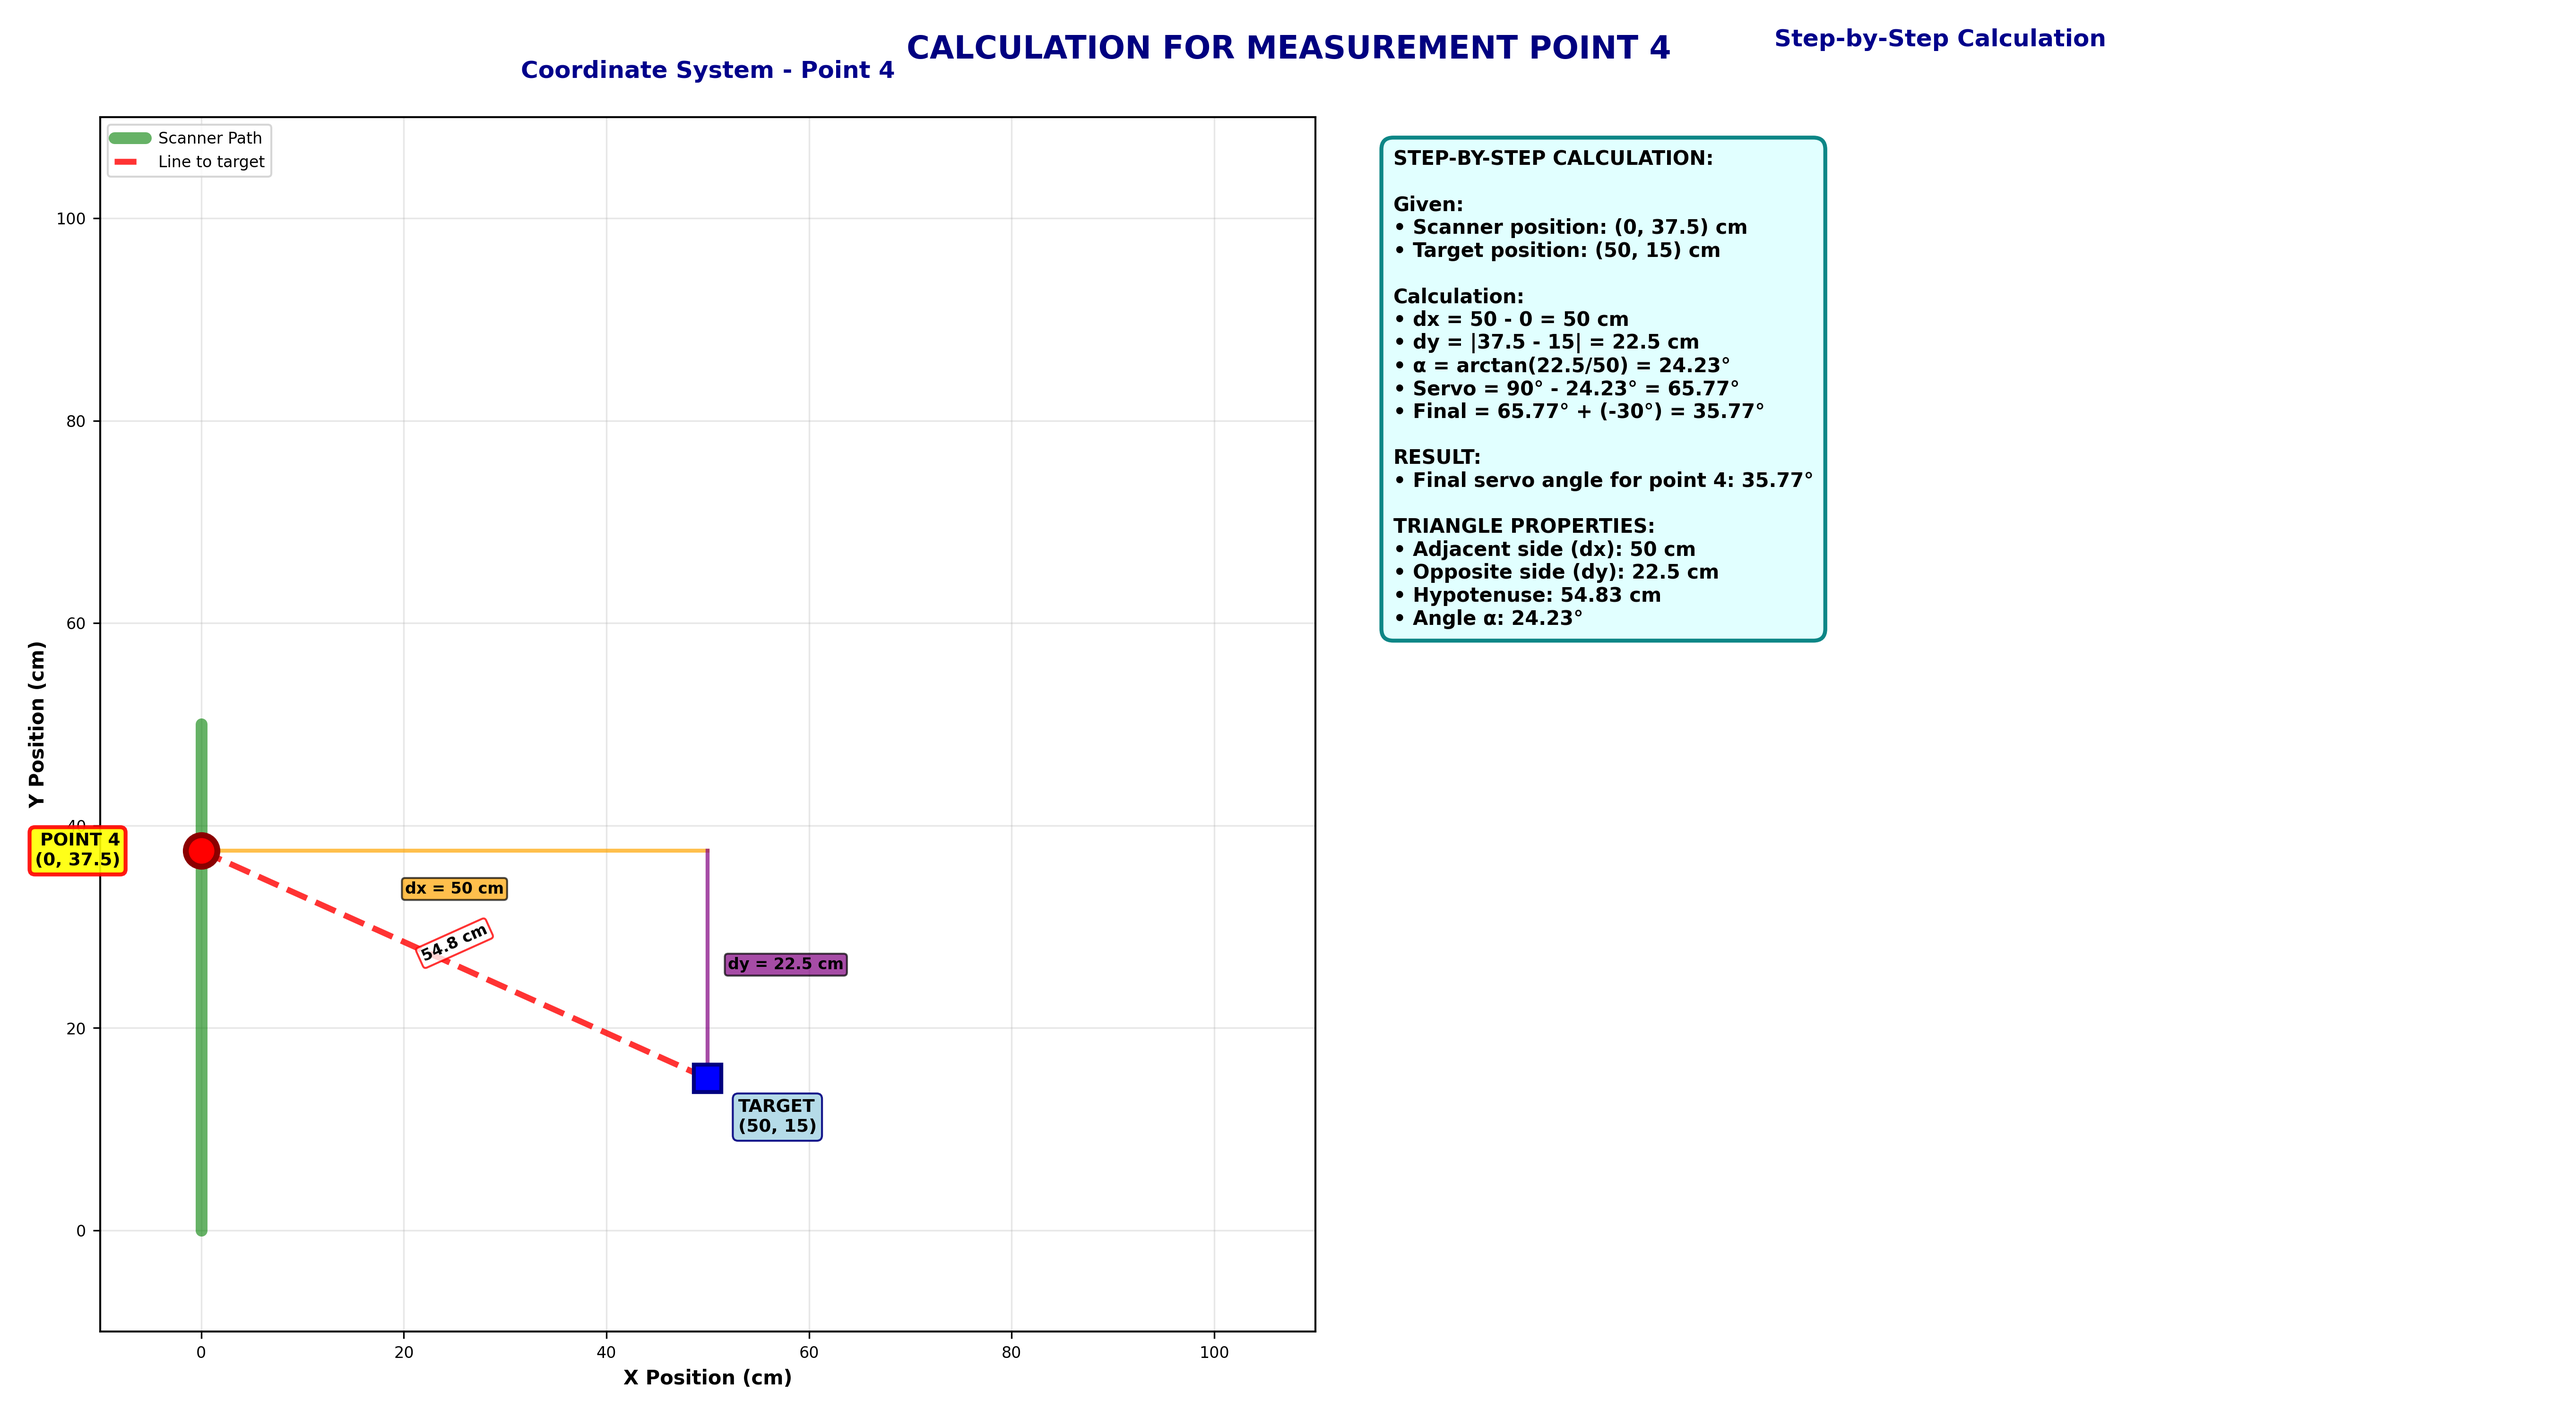
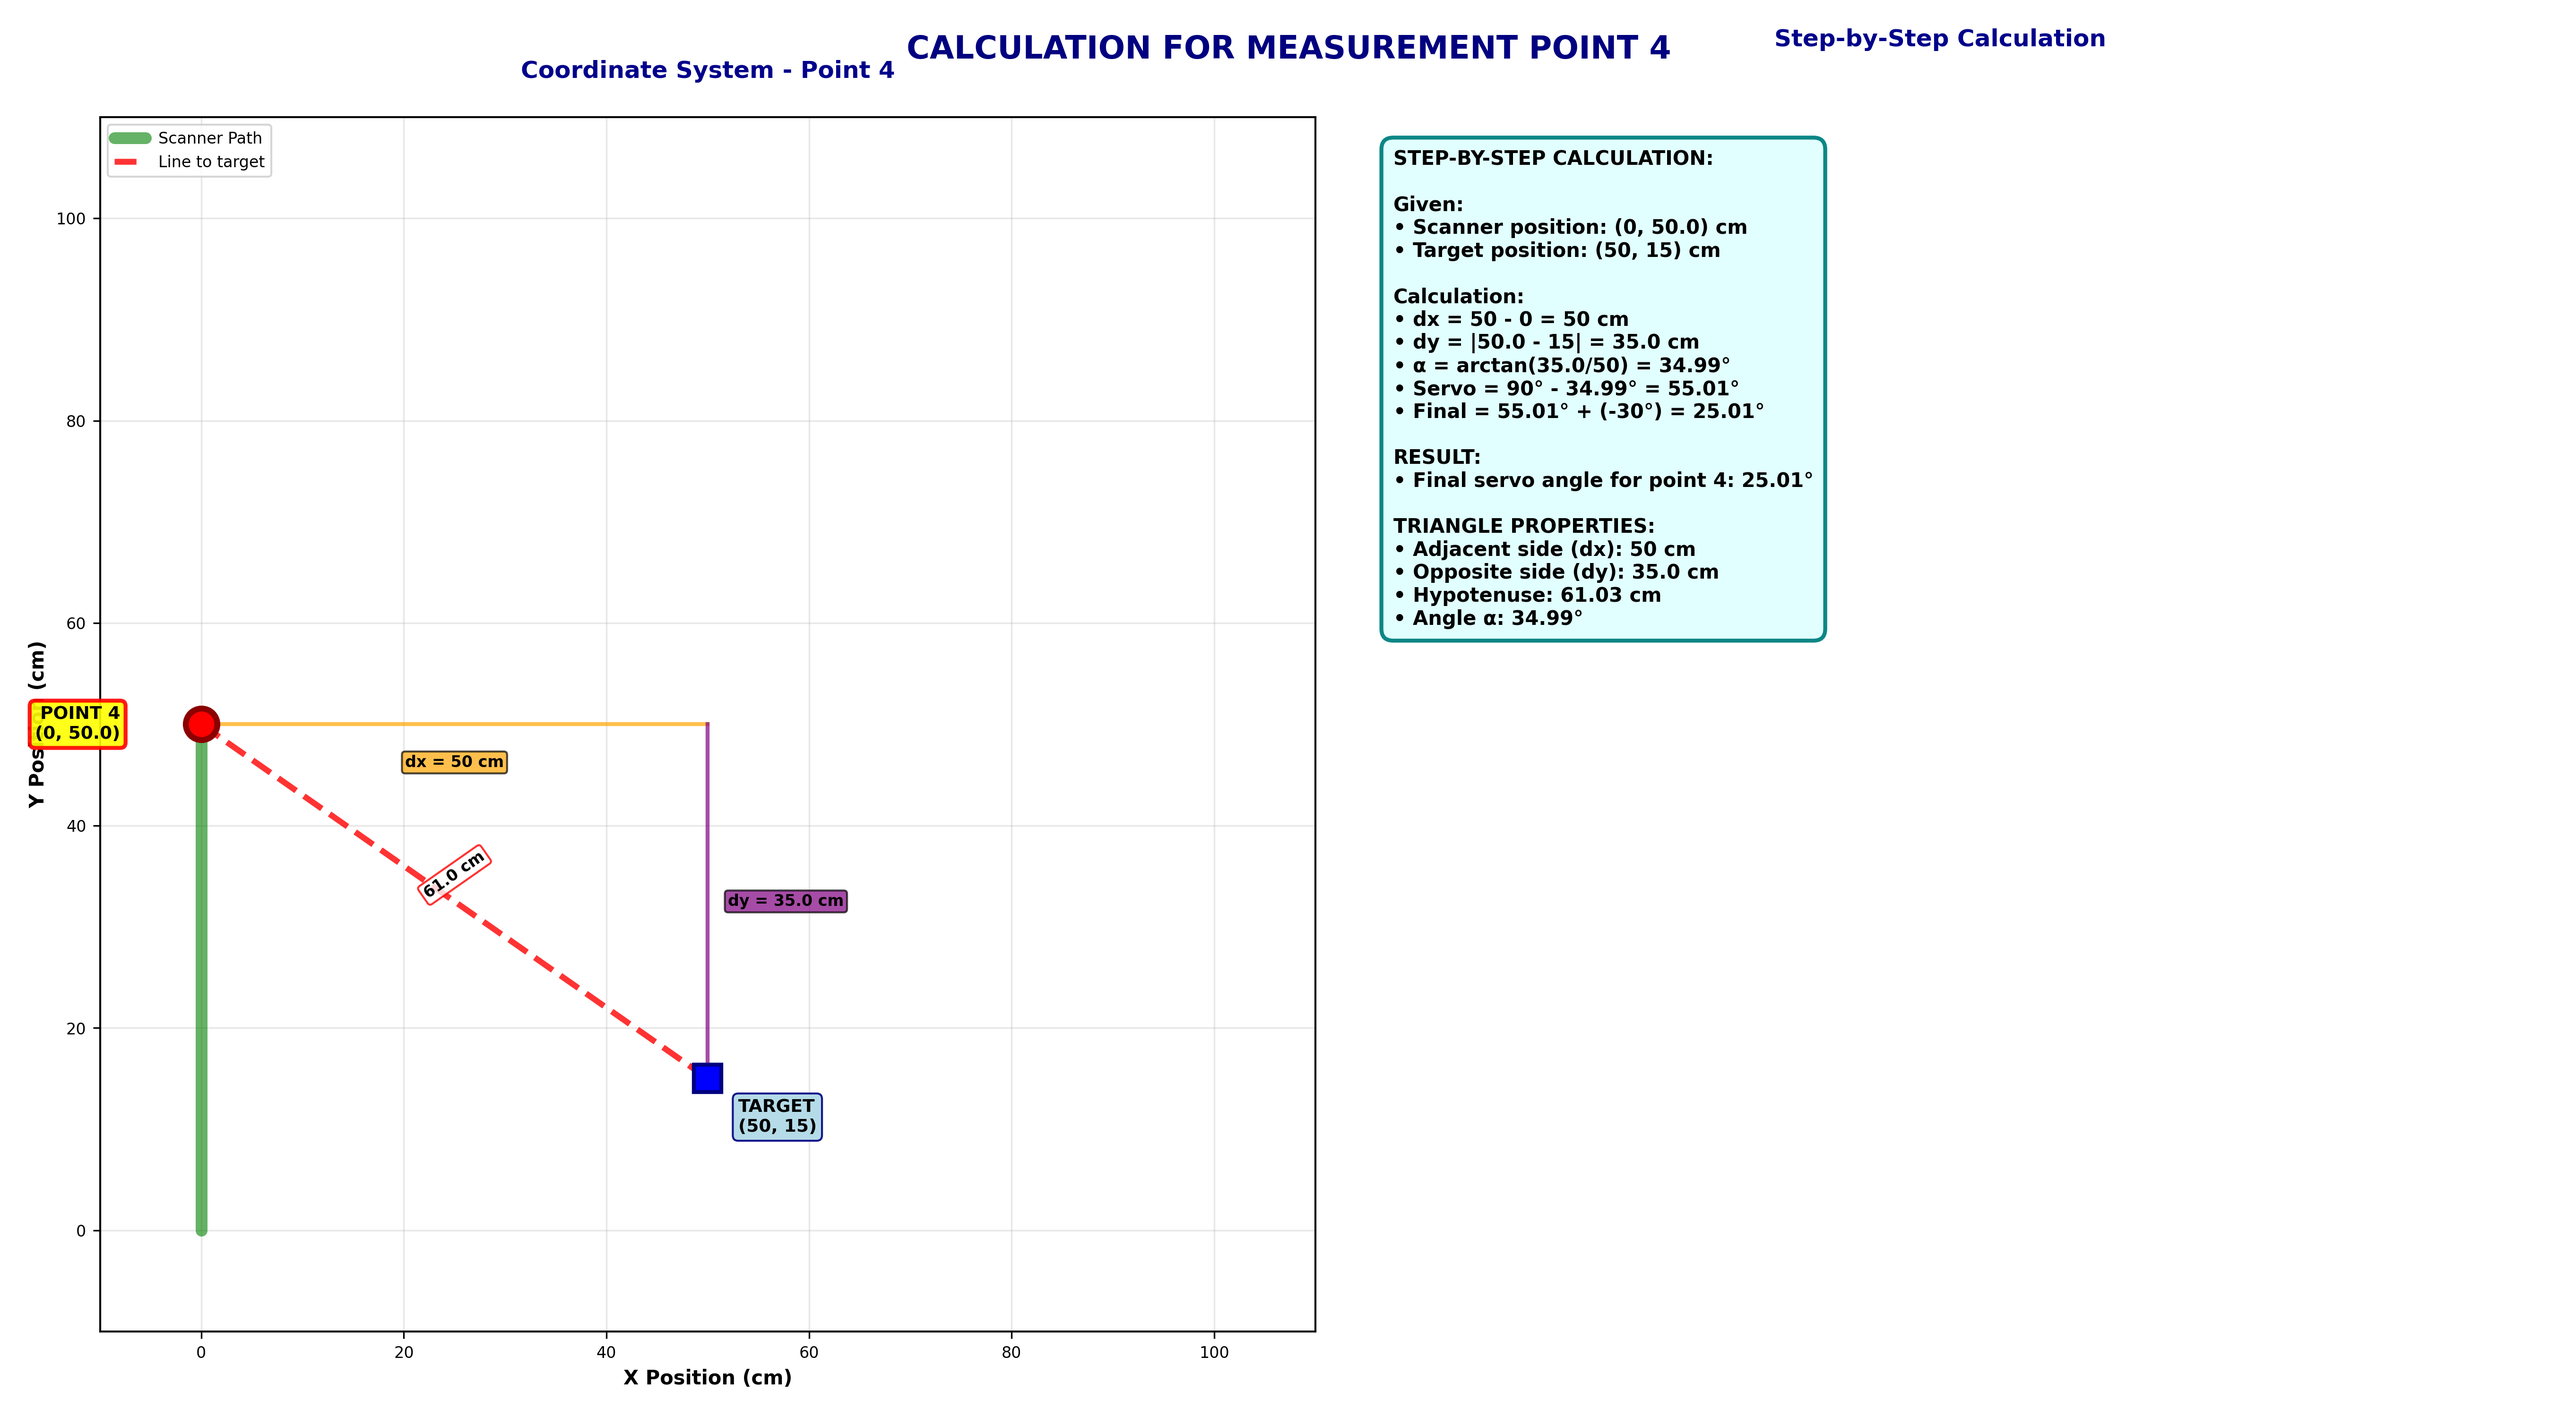
messpunkt an Z max eingefügt

diff --git a/implementation/ControlScript/Calculator_Angle_Maschine/MathVisualisation/complete_servo_angle_explanation.py b/implementation/ControlScript/Calculator_Angle_Maschine/MathVisualisation/complete_servo_angle_explanation.py
@@ -61,15 +61,15 @@ def print_step_by_step_explanation():
     print(f"   • Scanner moves {SCAN_DISTANCE} cm vertically")
     print(f"   • {NUMBER_OF_MEASUREMENTS} measurement points are calculated")
     print()
-    
-    # Step 1: Calculate step size
-    step_size = SCAN_DISTANCE / NUMBER_OF_MEASUREMENTS
+      # Step 1: Calculate step size
+    step_size = SCAN_DISTANCE / (NUMBER_OF_MEASUREMENTS - 1)
     print("📏 STEP 1: Calculate step size")
     print("   " + "-" * 45)
-    print(f"   Formula: Step size = Total distance ÷ Number of measurements")
-    print(f"   Step size = {SCAN_DISTANCE} cm ÷ {NUMBER_OF_MEASUREMENTS}")
-    print(f"   Step size = {step_size} cm")
-    print(f"   → Each measurement point is {step_size} cm apart")
+    print(f"   Formula: Step size = Total distance ÷ (Number of measurements - 1)")
+    print(f"   Step size = {SCAN_DISTANCE} cm ÷ ({NUMBER_OF_MEASUREMENTS} - 1)")
+    print(f"   Step size = {step_size:.2f} cm")
+    print(f"   → Each measurement point is {step_size:.2f} cm apart")
+    print("   → This ensures the last measurement is at the full scan distance")
     print()
     
     # Step 2: Trigonometry for each point
@@ -276,7 +276,7 @@ SERVO ANGLE:
 
 CORRECTION:
 • Final° = Servo° + Correction
-• Correction = -20°
+• Correction = {ANGLE_CORRECTION_REFERENCE - 90}°
 
 MEASUREMENT SETUP:
 • dx = Target X - Scanner X
@@ -645,7 +645,7 @@ SERVO ANGLE:
 
 CORRECTION:
 • Final° = Servo° + Correction
-• Correction = -20°"""
+• Correction = {ANGLE_CORRECTION_REFERENCE - 90}°"""
     
     ax3.text(0.03, 0.97, formula_text, transform=ax3.transAxes, fontsize=10,
              verticalalignment='top', fontweight='bold', 
@@ -672,7 +672,7 @@ Calculation:
 • dy = |{example_data['y_pos']:.1f} - 0| = {example_data['dy']:.1f} cm
 • α = arctan({example_data['dy']:.1f}/{example_data['dx']}) = {example_data['alpha']:.2f}°
 • Servo = 90° - {example_data['alpha']:.2f}° = {example_data['theoretical']:.2f}°
-• Final = {example_data['theoretical']:.2f}° + (-20°) = {example_data['final']:.2f}°"""
+• Final = {example_data['theoretical']:.2f}° + ({ANGLE_CORRECTION_REFERENCE - 90}°) = {example_data['final']:.2f}°"""
     
     ax4.text(0.03, 0.97, example_text, transform=ax4.transAxes, fontsize=10,
              verticalalignment='top', fontweight='bold',

diff --git a/implementation/ControlScript/calculator/calculator_from_javascript.py b/implementation/ControlScript/calculator/calculator_from_javascript.py
@@ -70,16 +70,15 @@ NUMBER_OF_MEASUREMENTS = 10  # Anzahl der Messpunkte
         
         # In Grad umwandeln
         alpha_degrees = alpha * 180 / math.pi
-        
-        # Winkelkorrektur anwenden
+          # Winkelkorrektur anwenden
         angle = abs(90 - alpha_degrees)
         
         return angle
 
     def calculate_step_size(self):
         """Berechnet die Schrittgröße für die Messungen"""
-        if self.numberOfMeasurements > 0:
-            return self.deltaScan / self.numberOfMeasurements
+        if self.numberOfMeasurements > 1:
+            return self.deltaScan / (self.numberOfMeasurements - 1)
         return 0
 
     def generate_results_table(self):

diff --git a/implementation/ControlScript/Calculator_Angle_Maschine/calculator_without_visualization.py b/implementation/ControlScript/Calculator_Angle_Maschine/calculator_without_visualization.py
@@ -89,8 +89,8 @@ def calculate_approximated_angle(current_y):
 
 def calculate_step_size():
     """Calculates the step size for measurements"""
-    if NUMBER_OF_MEASUREMENTS > 0:
-        return DELTA_SCAN / NUMBER_OF_MEASUREMENTS
+    if NUMBER_OF_MEASUREMENTS > 1:
+        return DELTA_SCAN / (NUMBER_OF_MEASUREMENTS - 1)
     return 0
 
 def explain_angle_correction():

diff --git a/implementation/ControlScript/calculator/calculator_angle_table.py b/implementation/ControlScript/calculator/calculator_angle_table.py
@@ -68,8 +68,8 @@ def calculate_angle(current_y):
 
 def calculate_step_size():
     """Berechnet die Schrittgröße für die Messungen"""
-    if NUMBER_OF_MEASUREMENTS > 0:
-        return DELTA_SCAN / NUMBER_OF_MEASUREMENTS
+    if NUMBER_OF_MEASUREMENTS > 1:
+        return DELTA_SCAN / (NUMBER_OF_MEASUREMENTS - 1)
     return 0
 
 def generate_presentation_view():

diff --git a/implementation/ControlScript/Calculator_Angle_Maschine/calculator_Angle_IScan.py b/implementation/ControlScript/Calculator_Angle_Maschine/calculator_Angle_IScan.py
@@ -112,8 +112,8 @@ def explain_angle_correction():
 
 def calculate_step_size():
     """Calculates the step size for measurements"""
-    if NUMBER_OF_MEASUREMENTS > 0:
-        return DELTA_SCAN / NUMBER_OF_MEASUREMENTS
+    if NUMBER_OF_MEASUREMENTS > 1:
+        return DELTA_SCAN / (NUMBER_OF_MEASUREMENTS - 1)
     return 0
 
 def generate_results_table():
